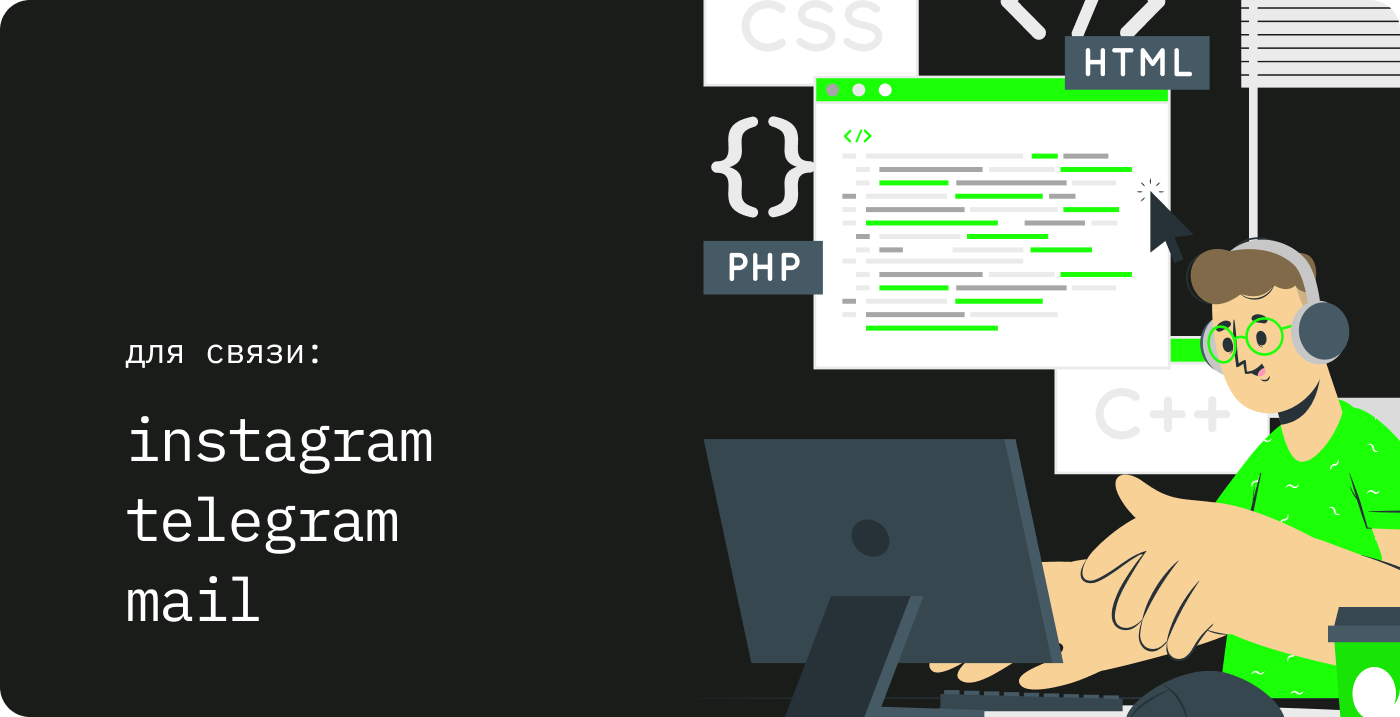
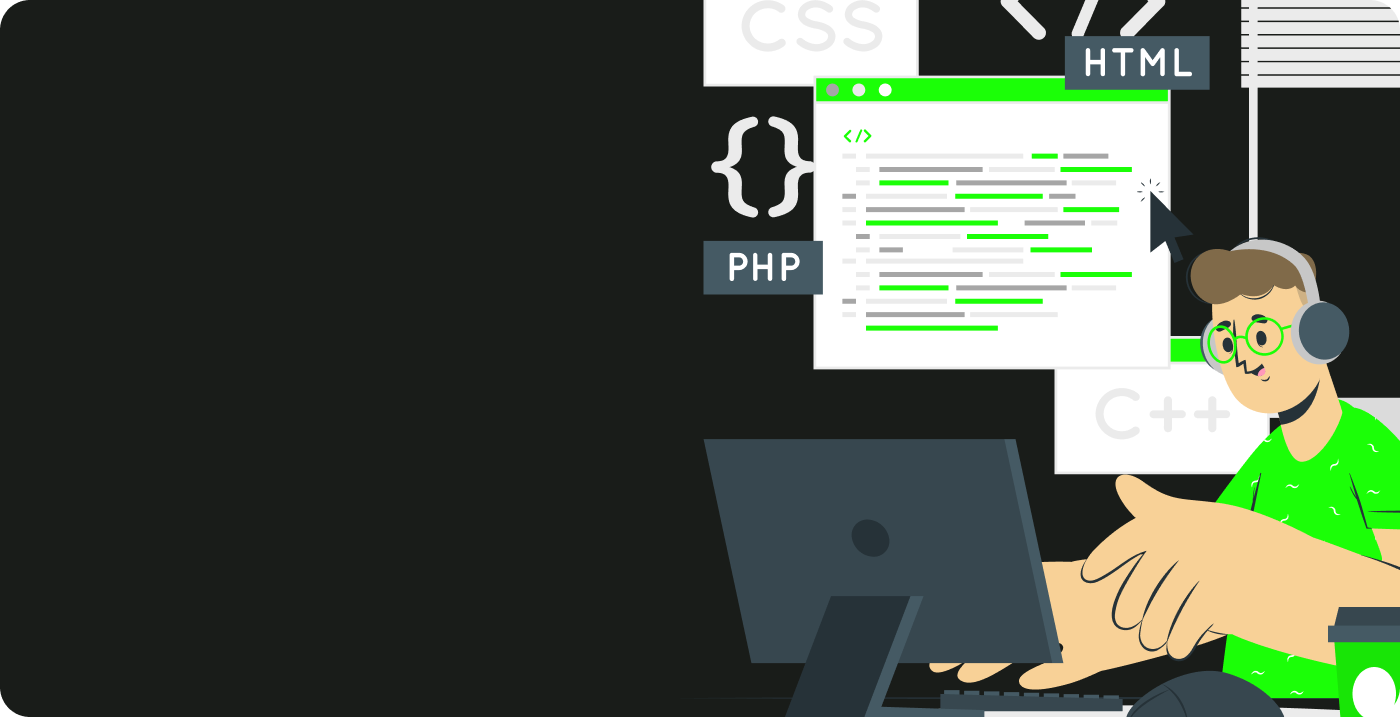
Добавлены секции

diff --git a/styles/styles.css b/styles/styles.css
@@ -146,3 +146,71 @@ html {
 	font-size: 22px;
 	line-height: 29px;
 }
+
+.services-section {
+	margin-bottom: 150px;
+}
+
+.services-section__title {
+	font-size: 35px;
+	line-height: 46px;
+	font-weight: 400;
+	max-width: 419px;
+	margin-bottom: 74px;
+}
+
+.services {}
+
+.service {
+	margin-bottom: 74px;
+}
+
+.service:nth-child(2) {
+	margin-bottom: 137px;
+}
+
+.service__image {
+	max-width: 100%;
+}
+
+.service__info {
+	background: #191C19;
+	border-radius: 30px;
+	padding: 40px;
+}
+
+.service__name {
+	font-size: 55px;
+	line-height: 72px;
+	color: #1BFF07;
+	margin-bottom: 15px;
+}
+
+.service__description {
+	font-size: 22px;
+	line-height: 29px;
+}
+
+.contacts-section {
+	background: url("../resources/contact\ section\ image.png") center center / cover no-repeat;
+	height: 717px;
+	margin-bottom: 150px;
+}
+
+.contacts-section__info {}
+
+.contacts-section__title {
+	font-size: 35px;
+	line-height: 60px;
+	margin-bottom: 28px;
+}
+
+.contacts__item {
+	margin-bottom: 20px;
+}
+
+.contacts__link {
+	font-size: 60px;
+	line-height: 60px;
+	color: #FFFFFF;
+}

diff --git a/index.html b/index.html
@@ -166,6 +166,18 @@
 				</ul>
 			</div>
 		</section>
+		<section class="contacts-section">
+			<div class="container">
+				<div class="contacts-section__info">
+					<h2 class="contacts-section__title">для связи:</h2>
+					<ul class="contacts">
+						<li class="contacts__item"><a href="#" class="contacts__link">instagram</a></li>
+						<li class="contacts__item"><a href="#" class="contacts__link">telegram</a></li>
+						<li class="contacts__item"><a href="#" class="contacts__link">mail</a></li>
+					</ul>
+				</div>
+			</div>
+		</section>
 	</main>
 	<footer class="footer">
 
